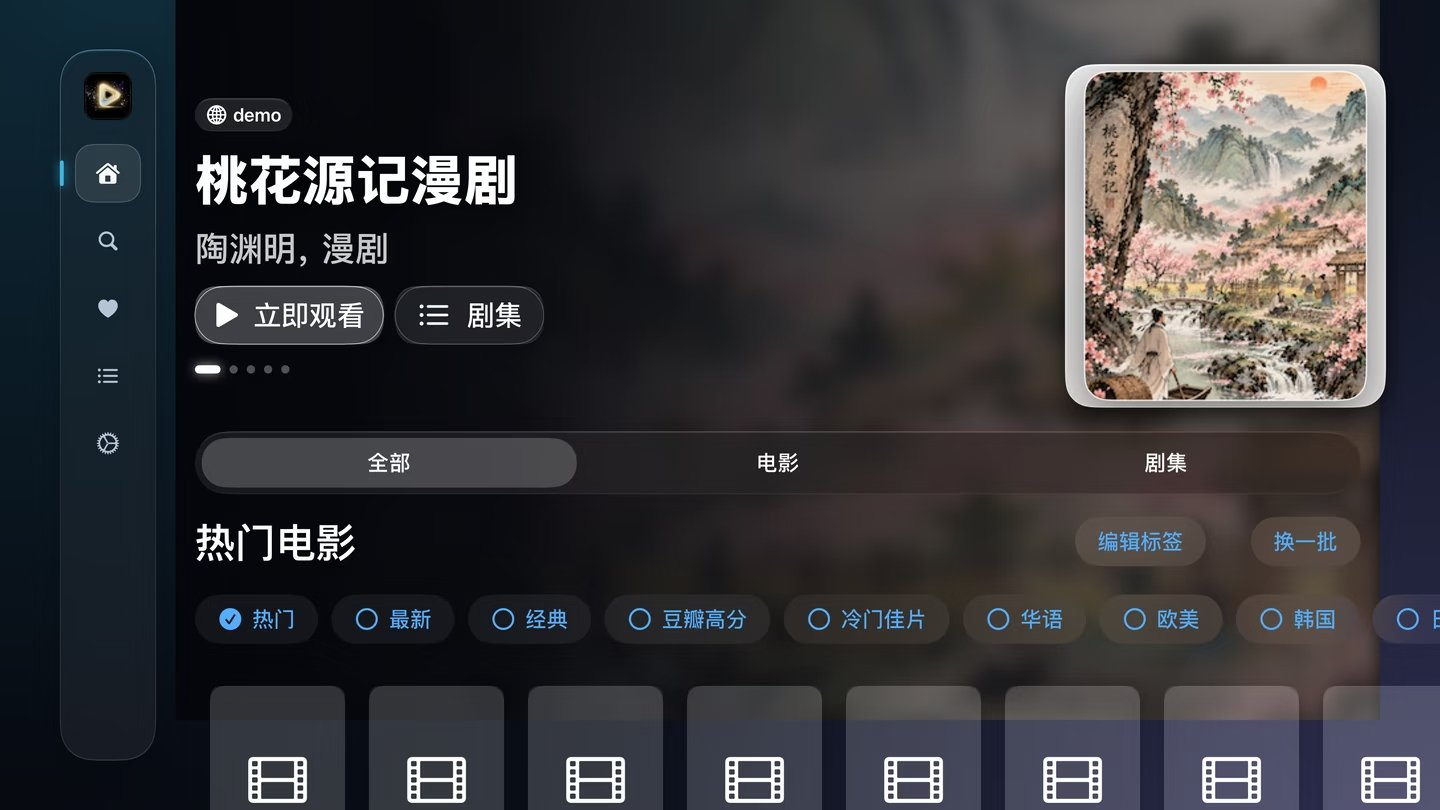
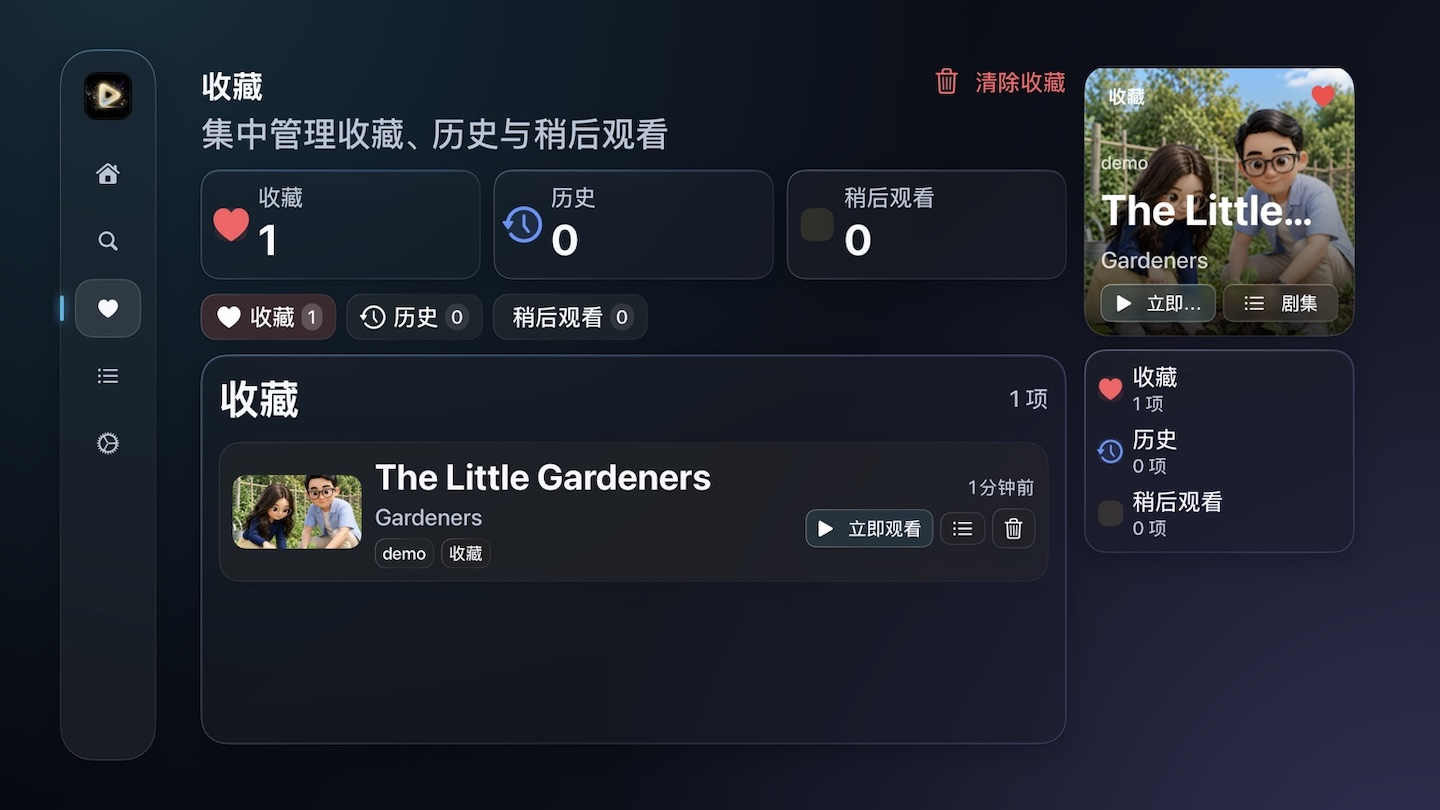
update screenshots & langs

diff --git a/src/locale/zh.ts b/src/locale/zh.ts
@@ -117,15 +117,15 @@ export const zh: Record<string, string> = {
   'faq.q2': '在哪里下载 ChiTV？',
   'faq.a2': '点击官网下载按钮获取。当前下载入口为占位链接（指向 GitHub Releases），正式下载地址公布后以官网为准。',
   'faq.q3': '需要注册账号吗？',
-  'faq.a3': '本地收藏与观看历史无需账号即可使用；登录后可通过云端同步多设备数据（Apple 版经 CloudKit）。',
+  'faq.a3': '本地收藏与观看历史无需账号即可使用；登录 iCloud 后可通过云端同步多设备数据（Apple 版经 CloudKit）。',
   'faq.q4': 'ChiTV 支持哪些视频格式？',
   'faq.a4': '支持 HLS 流媒体播放，享受高清流畅的观看体验。',
   'faq.q5': '观看历史和收藏夹保存在哪里？',
-  'faq.a5': '默认保存在本地设备上；登录后可通过云端在多设备间同步（Apple 版经 CloudKit）。',
+  'faq.a5': '默认保存在本地设备上；登录 iCloud 后可通过云端在多设备间同步（Apple 版经 CloudKit）。',
   'faq.q6': '如何切换界面语言？',
   'faq.a6': '点击右上角的语言菜单，可在简体中文、繁體中文与 English 之间随时切换。',
   'meta.privacy.title': '隐私政策 - ChiTV',
-  'meta.privacy.desc': 'ChiTV Player iOS/tvOS 隐私政策：本机数据、网络请求、可选 CloudKit 同步与 Apple 购买。',
+  'meta.privacy.desc': 'ChiTV Player iOS/tvOS 隐私政策：本机数据、网络请求、可选 iCloud 同步与 Apple 购买。',
   'meta.terms.title': '服务条款 - ChiTV',
   'meta.terms.desc': 'ChiTV 服务条款：使用 ChiTV 应用与网站前请阅读本条款。',
   'privacy.title': '隐私政策',

diff --git a/src/locale/en.ts b/src/locale/en.ts
@@ -117,11 +117,11 @@ export const en: Record<string, string> = {
   'faq.q2': 'Where can I download ChiTV?',
   'faq.a2': 'Use the download button on this site. Links currently point to GitHub Releases as placeholders; official links will be announced here.',
   'faq.q3': 'Do I need an account?',
-  'faq.a3': 'No. Local favorites and watch history work without an account; signing in enables cloud sync across devices (via CloudKit on Apple platforms).',
+  'faq.a3': 'No. Local favorites and watch history work without an account; signing in iCloud enables cloud sync across devices (via CloudKit on Apple platforms).',
   'faq.q4': 'What video formats does ChiTV support?',
   'faq.a4': 'HLS streaming playback, for a smooth HD viewing experience.',
   'faq.q5': 'Where are my watch history and favorites stored?',
-  'faq.a5': 'On your local device by default; signing in enables cloud sync across devices (via CloudKit on Apple platforms).',
+  'faq.a5': 'On your local device by default; signing in iCloud enables cloud sync across devices (via CloudKit on Apple platforms).',
   'faq.q6': 'How do I switch the interface language?',
   'faq.a6': 'Use the language menu in the top-right corner to switch between Simplified Chinese, Traditional Chinese and English anytime.',
   'meta.privacy.title': 'Privacy Policy - ChiTV',

diff --git a/src/locale/tw.ts b/src/locale/tw.ts
@@ -117,11 +117,11 @@ export const tw: Record<string, string> = {
   'faq.q2': '在哪裡下載 ChiTV？',
   'faq.a2': '點擊官網下載按鈕獲取。目前下載入口為佔位連結（指向 GitHub Releases），正式下載地址公佈後以官網為準。',
   'faq.q3': '需要註冊帳號嗎？',
-  'faq.a3': '本地收藏與觀看歷史無需帳號即可使用；登入後可透過雲端同步多裝置數據（Apple 版經 CloudKit）。',
+  'faq.a3': '本地收藏與觀看歷史無需帳號即可使用；登入 iCloud 後可透過雲端同步多裝置數據（Apple 版經 CloudKit）。',
   'faq.q4': 'ChiTV 支援哪些影片格式？',
   'faq.a4': '支援 HLS 串流播放，享受高清流暢的觀看體驗。',
   'faq.q5': '觀看歷史和收藏夾保存在哪裡？',
-  'faq.a5': '預設保存在本地裝置上；登入後可透過雲端在多裝置間同步（Apple 版經 CloudKit）。',
+  'faq.a5': '預設保存在本地裝置上；登入 iCloud 後可透過雲端在多裝置間同步（Apple 版經 CloudKit）。',
   'faq.q6': '如何切換介面語言？',
   'faq.a6': '點擊右上角的語言選單，可在簡體中文、繁體中文與 English 之間隨時切換。',
   'meta.privacy.title': '隱私政策 - ChiTV',
